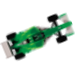
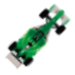
Add rotation animation

diff --git a/Part-A/src/main/java/TurntablePanel.java b/Part-A/src/main/java/TurntablePanel.java
@@ -1,0 +1,72 @@
+package main.java;
+
+import javax.swing.*;
+import java.awt.*;
+import java.awt.event.ActionEvent;
+import java.awt.event.ActionListener;
+import java.util.Map;
+
+public class TurntablePanel extends JPanel implements ActionListener
+{
+    private int imageIndex = 0;
+    private int animationSpeed;
+    private Map<String, ImageIcon> raceCar;
+    private Timer timer = new Timer(animationSpeed, this);
+    private String filePrefix = "red_small_";
+
+    public TurntablePanel()
+    {
+        this.loadImages();
+        this.timer.start();
+    }
+
+    public void loadImages()
+    {
+        try
+        {
+            this.raceCar = ImageLoader.importImages();
+        }
+        catch (UnsupportedOperationException ex)
+        {
+            System.out.println(ex.getMessage());
+            System.exit(1);
+        }
+    }
+
+    public void setAnimationSpeed(int animationSpeed)
+    {
+        this.animationSpeed = animationSpeed;
+    }
+
+    @Override
+    protected void paintComponent(Graphics graphic)
+    {
+        super.paintComponent(graphic);
+
+        String imageName = new String(filePrefix + imageIndex + ".png");
+        ImageIcon current = raceCar.get(imageName);
+        current.paintIcon(this, graphic, 212, 212);
+
+        this.setBackground(Color.darkGray);
+    }
+
+    @Override
+    public void actionPerformed(ActionEvent e) {
+
+        if(e.getSource() == this.timer)
+        {
+            if (imageIndex >= 16) { imageIndex = 0; }
+
+            try {
+                Thread.sleep(125);
+            }
+            catch (InterruptedException ex) {
+                System.out.println(ex.getMessage());
+                System.exit(1);
+            }
+
+            repaint();
+            imageIndex++;
+        }
+    }
+}

diff --git a/Part-A/src/main/java/Main.java b/Part-A/src/main/java/Main.java
@@ -1,18 +1,36 @@
 package main.java;
 
 import javax.swing.*;
+import java.awt.*;
 
 public class Main {
 
     public static void main(String[] args)
     {
-        CoreWindow coreWindow = new CoreWindow("Welcome to TarmacSpeedway!");
-        coreWindow.setWindowSize(500, 500);
+        // Create the GUI window
+        CoreWindow splash = new CoreWindow("TarmacSpeedway: Pits Turntable!");
+        splash.setWindowSize(500, 600);
 
-        ImagePanel panel = new ImagePanel();
-        panel.loadImages();
+        JPanel mainPanel = new JPanel();
 
-        coreWindow.addComponents(panel);
-        coreWindow.render();
+        // Create the header label
+        HeaderPanel title = new HeaderPanel("Will this do the job?");
+        title.setLayout(new FlowLayout());
+
+        // Create the panel that will host the images
+        TurntablePanel animator = new TurntablePanel();
+        animator.setAnimationSpeed(1000);
+
+        // Create the 'start game' button
+        JButton startGame = new JButton("Race!");
+
+        // Add the image panel to the window, and render the window.
+        splash.addComponents(title);
+        splash.addComponents(startGame);
+        splash.addComponents(animator);
+
+        // Render the window frame
+        splash.render();
     }
 }
+

diff --git a/Part-A/src/main/java/DeviceOS.java b/Part-A/src/main/java/DeviceOS.java
@@ -19,6 +19,15 @@ public abstract class DeviceOS
 
     private static String operatingSystemInfo()
     {
-        return System.getProperty("os.name");
+        String osName = "";
+        try {
+            osName = System.getProperty("os.name");
+        }
+        catch (Exception ex) {
+            System.out.println(ex.getMessage());
+            System.exit(1);
+        }
+
+        return osName;
     }
 }

diff --git a/Part-A/src/main/java/HeaderPanel.java b/Part-A/src/main/java/HeaderPanel.java
@@ -1,0 +1,17 @@
+package main.java;
+
+import javax.swing.*;
+import java.awt.*;
+
+public class HeaderPanel extends JPanel
+{
+    private String headerText;
+
+    public HeaderPanel(String headerText)
+    {
+        // super(new BorderLayout(2,2));
+
+        this.headerText = headerText;
+        this.add(new JLabel(headerText, JLabel.CENTER));
+    }
+}
